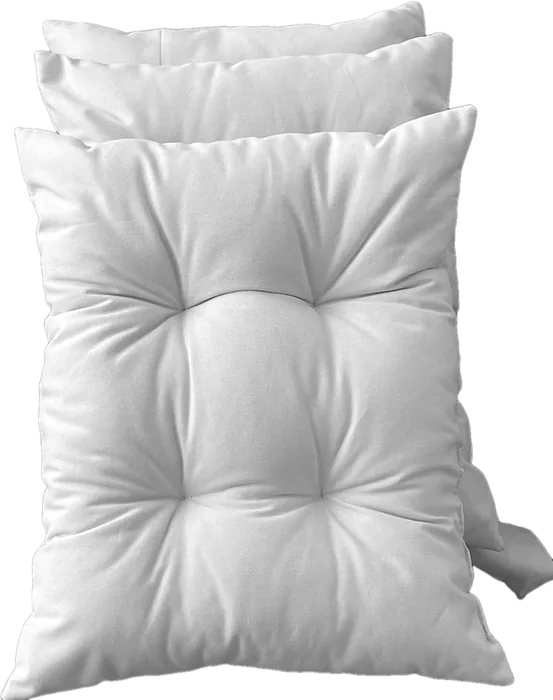
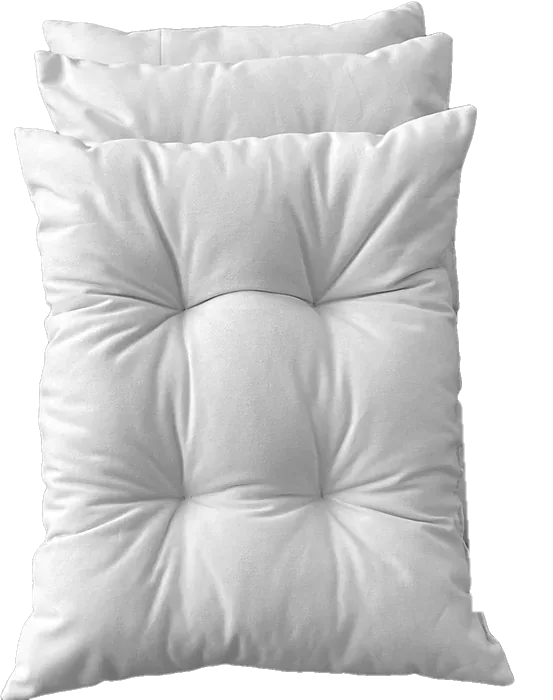
Colores: quitar la tira de tela que sobresalía del almohadón simulado
Claude-Session: https://claude.ai/code/session_01CieVK7rjxLV5jgxNJwhLKH

Changed region(s): [[0.83, 0.57, 1.0, 0.87]]

diff --git a/index.html b/index.html
@@ -177,9 +177,9 @@
 
   /* almohadón teñido: la foto en blanco y negro se multiplica sobre el color */
   .tint { position: relative; width: 72%; aspect-ratio: 790 / 1000; filter: drop-shadow(0 18px 24px rgba(0,0,0,.22)); }
-  .tint i { position: absolute; inset: 0; background: var(--c); -webkit-mask: url(img/almohadon-color.webp) center / contain no-repeat; mask: url(img/almohadon-color.webp) center / contain no-repeat; }
+  .tint i { position: absolute; inset: 0; background: var(--c); -webkit-mask: url(img/almohadon-color.webp?v=2) center / contain no-repeat; mask: url(img/almohadon-color.webp?v=2) center / contain no-repeat; }
   .tint img { position: absolute; inset: 0; width: 100%; height: 100%; object-fit: contain; mix-blend-mode: multiply; }
-  .tint b { position: absolute; inset: 0; background: url(img/almohadon-color.webp) center / contain no-repeat; mix-blend-mode: screen; opacity: .12; }
+  .tint b { position: absolute; inset: 0; background: url(img/almohadon-color.webp?v=2) center / contain no-repeat; mix-blend-mode: screen; opacity: .12; }
   .pal-stage .hint { position: absolute; left: 14px; bottom: 14px; background: var(--crema); color: var(--muted); font-weight: 600; font-size: .8rem; padding: 6px 12px; border-radius: 999px; }
   .pal-real { display: inline-flex; align-items: center; gap: 10px; margin-top: 12px; color: var(--ink); font-weight: 600; font-size: .92rem; text-underline-offset: 3px; }
   .pal-real img { width: 52px; height: 52px; object-fit: cover; border-radius: 6px; }
@@ -857,7 +857,7 @@
   const slug = n => n.toLowerCase().normalize('NFD').replace(/[\u0300-\u036f]/g, '').replace(/ /g, '-');
   $('#pal-list').innerHTML = COLORES.map(([n], i) =>
     `<li><button type="button" data-i="${i}" aria-pressed="false"><img src="img/pana/${slug(n)}.jpg" alt="" loading="lazy" decoding="async">${n}</button></li>`).join('');
-  const tinte = (hex) => `<div class="tint" style="--c:${hex}"><i></i><img src="img/almohadon-color.webp" alt=""><b></b></div>`;
+  const tinte = (hex) => `<div class="tint" style="--c:${hex}"><i></i><img src="img/almohadon-color.webp?v=2" alt=""><b></b></div>`;
   // Siempre se muestra un almohadón del color elegido; si hay foto real, un acceso debajo
   function elegirColor(i) {
     const [n, hex] = COLORES[i], foto = FOTO_COLOR[n], stage = $('#pal-stage');
